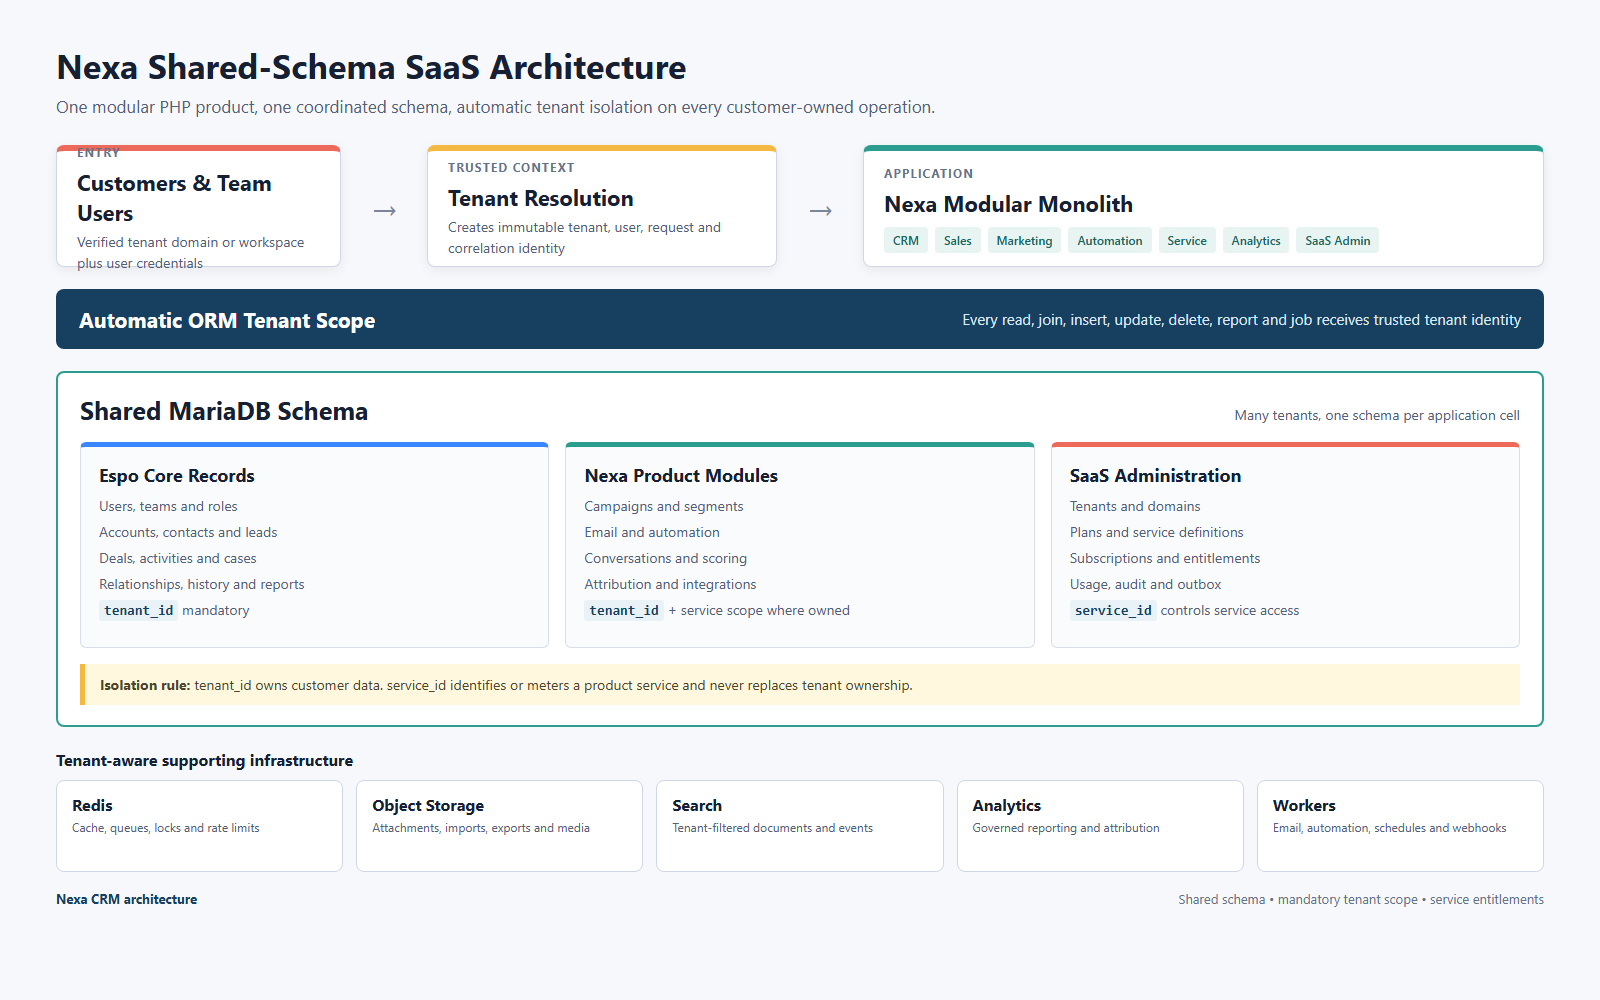
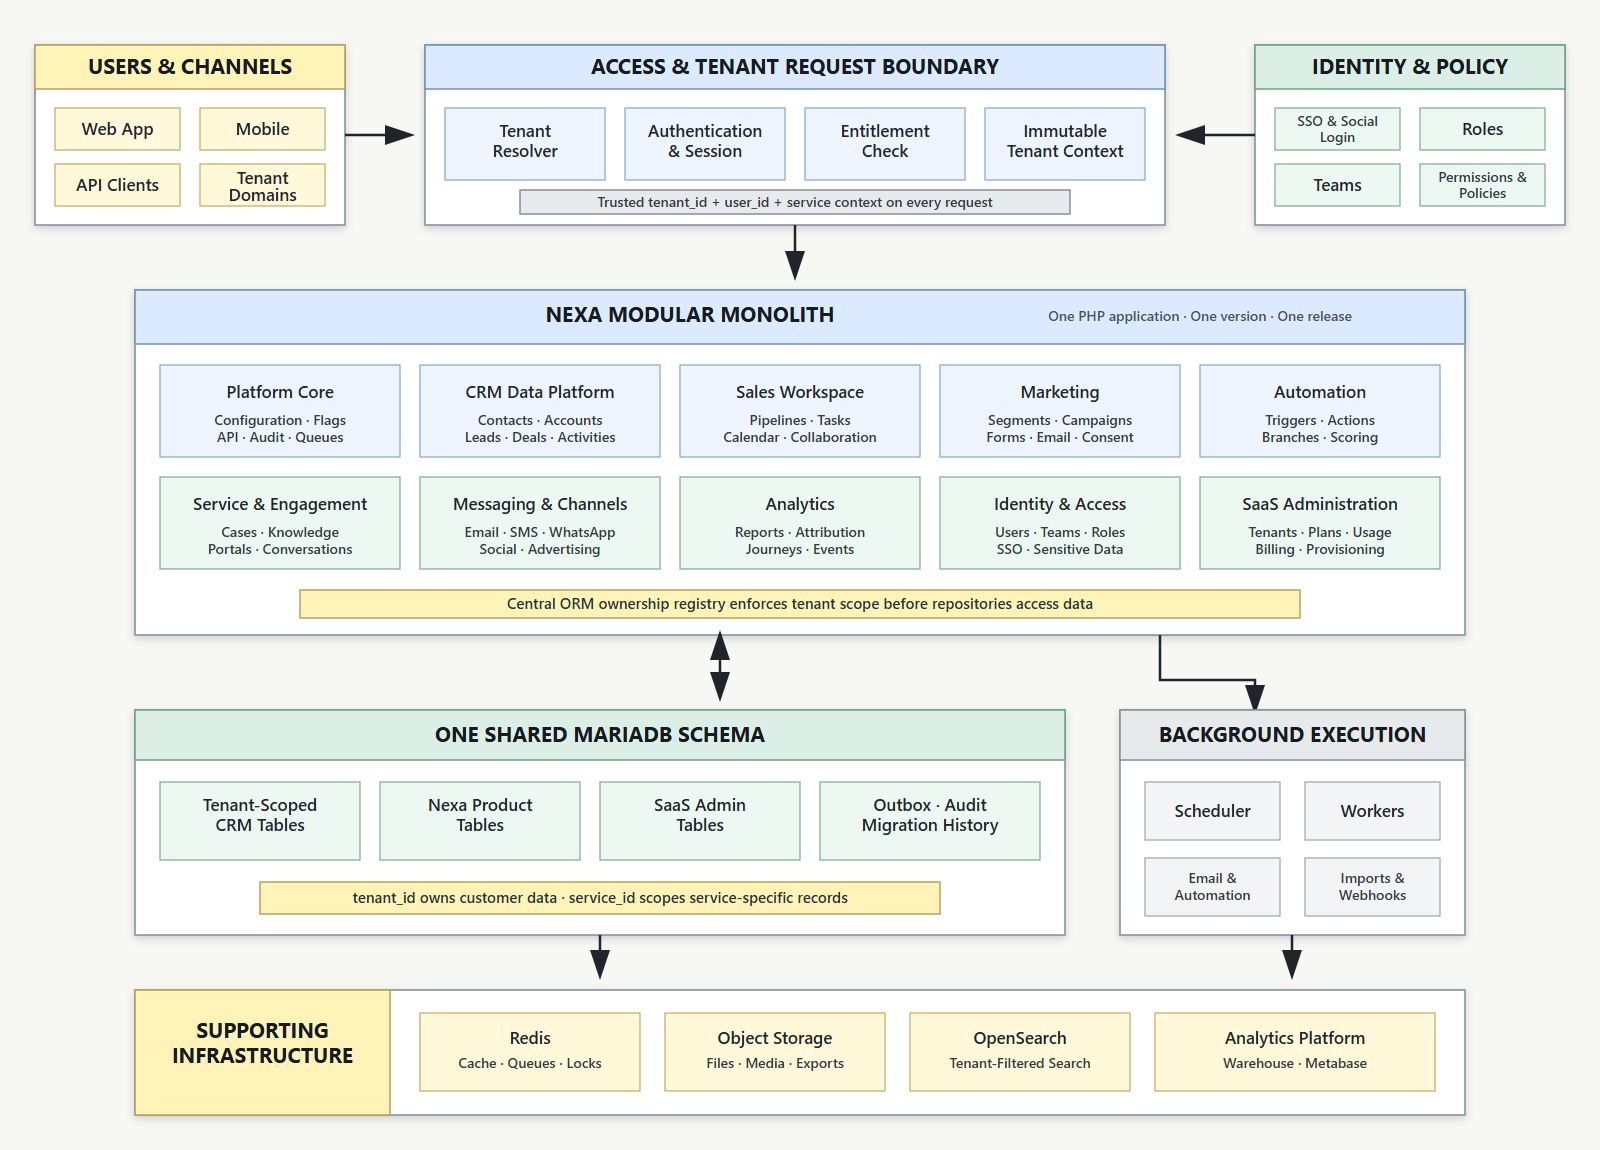
docs(architecture): redraw system diagram

diff --git a/README.md b/README.md
@@ -32,7 +32,7 @@ Nexa uses a **modular monolith with supporting platform services**. It is not a 
 
 ### Architecture Diagram
 
-![Nexa shared-schema modular monolith architecture showing tenant routing, automatic ORM scope, product modules, one shared database, workers and supporting infrastructure](docs/assets/nexa-system-architecture.png)
+![Nexa shared-schema modular monolith architecture showing tenant routing, automatic ORM scope, product modules, one shared database, workers and supporting infrastructure](docs/assets/nexa-system-architecture.svg)
 
 Transactional data uses a **shared-schema multi-tenant model**. EspoCRM core tables, Nexa modules and SaaS administration tables live in one MariaDB schema. Every customer-owned row is protected by mandatory `tenant_id` scope; service-owned records and entitlements additionally use `service_id`.
 

diff --git a/docs/architecture/espocrm-saas-architecture-recommendation.md b/docs/architecture/espocrm-saas-architecture-recommendation.md
@@ -41,7 +41,7 @@ General CRM records should not carry a service ID merely because several service
 
 ## 4. Target Architecture
 
-![Nexa shared-schema modular monolith architecture showing tenant routing, automatic ORM scope, product modules, one shared database, workers and supporting infrastructure](../assets/nexa-system-architecture.png)
+![Nexa shared-schema modular monolith architecture showing tenant routing, automatic ORM scope, product modules, one shared database, workers and supporting infrastructure](../assets/nexa-system-architecture.svg)
 
 ### 4.1 Modular Monolith
 